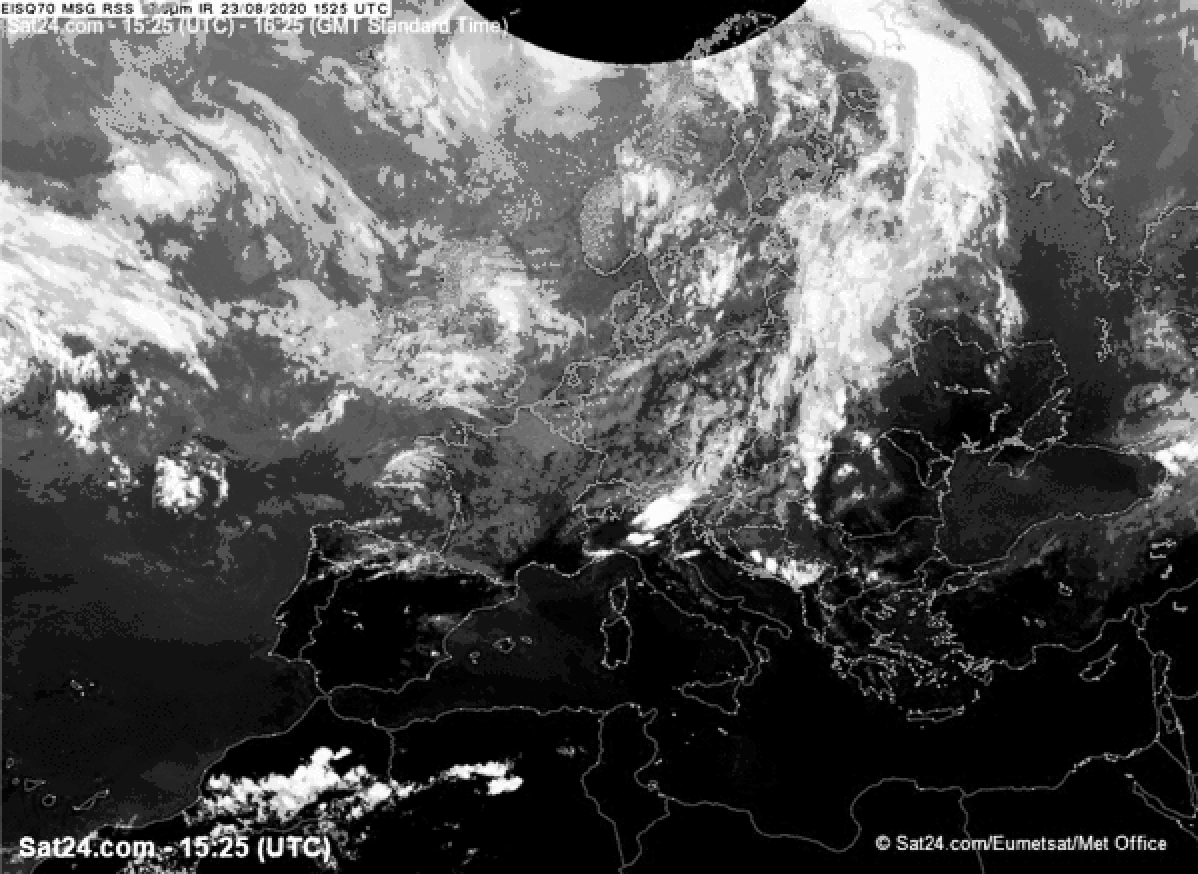
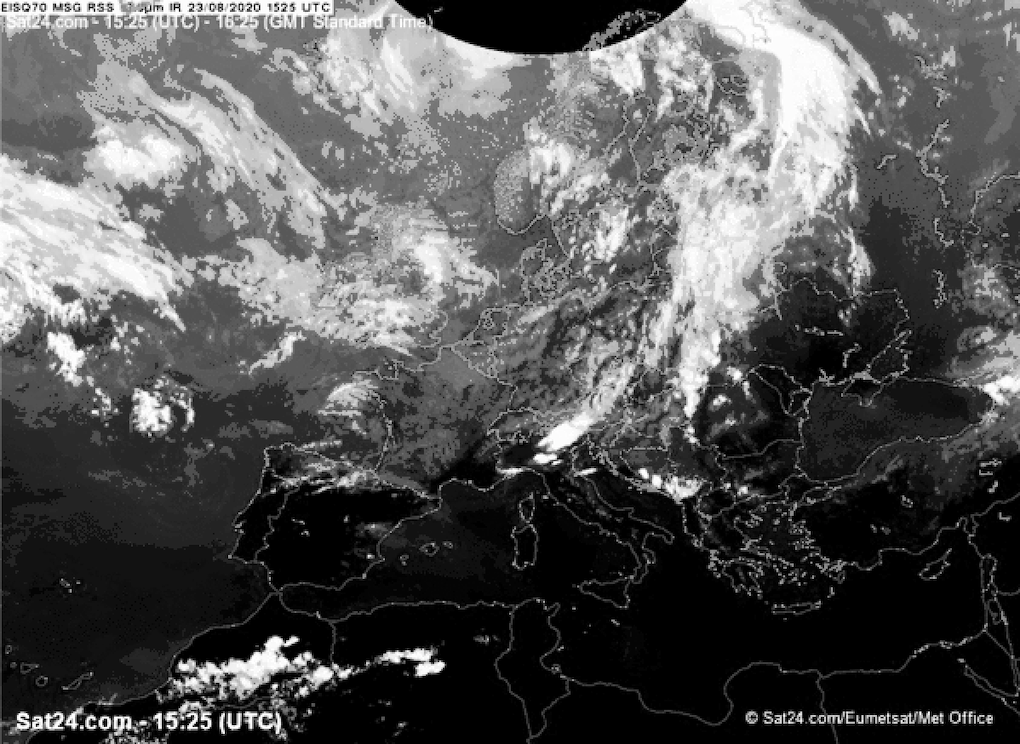
Updated images and README

Changed region(s): [[0.7598, 0.9583, 0.9725, 0.9892], [0.152, 0.9583, 0.2735, 0.9892], [0.0304, 0.9583, 0.1216, 0.9892]]

diff --git a/README.md b/README.md
@@ -1,1 +1,38 @@
 # Sat24-image-scrapper
+
+A simple python script to extract Sat24 satellite images of Europe's weather.
+
+The images will have a 15 minute refresh interval.
+
+##Controls
+
+Press `u` to update all images. This may take a while.
+
+Press `ESC` to exit the aplication
+
+## Images
+
+The following images will be displayed:
+
+<br>
+
+**Infrared**
+
+<img src="src/images/Infrared.png" alt="Sat24 infrared image"/>
+
+<br>
+
+**Rain**
+
+<img src="src/images/Rain.png" alt="Sat24 rain image"/>
+
+<br>
+
+**Visible**
+
+<img src="src/images/Visible.png" alt="Sat24 visible image"/>
+
+##Fix me!
+
+The downloaded images are automatically converted to gray.<br>
+This is an unintended "feature". Work in progress...
